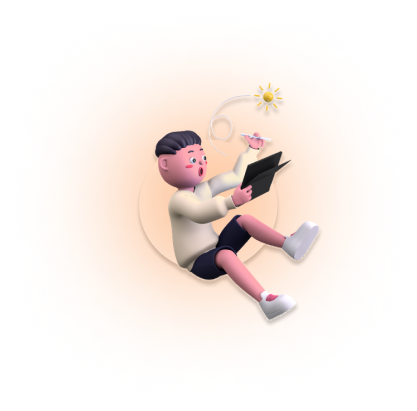
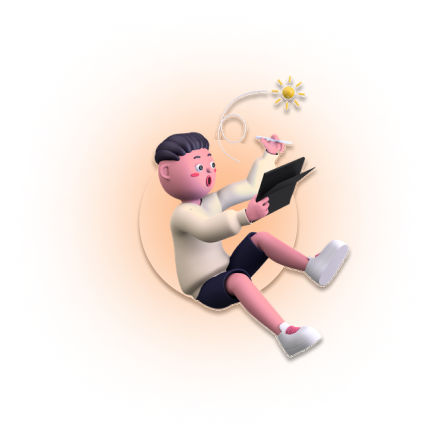
added register user screen

Changed region(s): [[0.3118, 0.1752, 0.8106, 0.8175]]

diff --git a/lib/screens/register_user_screen.dart b/lib/screens/register_user_screen.dart
@@ -1,0 +1,72 @@
+import 'package:flutter/material.dart';
+import 'package:olx_iete/constants.dart';
+import 'package:olx_iete/screens/login_screen.dart';
+
+class RegisterScreen extends StatelessWidget {
+  const RegisterScreen({super.key});
+
+  @override
+  Widget build(BuildContext context) {
+    return Scaffold(
+      body: Column(
+        children: [
+          Hero(
+            tag: 'login',
+            child: Image.asset(
+              "images/png/login_screen_character.png",
+              height: MediaQuery.of(context).size.height * 0.8,
+            ),
+          ),
+          Row(
+            mainAxisAlignment: MainAxisAlignment.spaceEvenly,
+            children: [
+              ElevatedButton(
+                 style: ElevatedButton.styleFrom(
+                  backgroundColor: CustomColors.orangeColor,
+                  animationDuration: const Duration(milliseconds: 100),
+                  shape: RoundedRectangleBorder(
+                    borderRadius: BorderRadius.circular(18),
+                  ),
+                ),
+                onPressed: () {
+                  Navigator.of(context).push(
+                    MaterialPageRoute(
+                        builder: (context) => const LoginScreen()),
+                  );
+                },
+                child: const Padding(
+                  padding: EdgeInsets.all(10.0),
+                  child: Text(
+                    "Login",
+                    style: TextStyle(
+                      fontSize: 16,
+                    ),
+                  ),
+                ),
+              ),
+              ElevatedButton(
+                 style: ElevatedButton.styleFrom(
+                  backgroundColor: CustomColors.orangeColor,
+                  animationDuration: const Duration(milliseconds: 100),
+                  shape: RoundedRectangleBorder(
+                    borderRadius: BorderRadius.circular(18),
+                  ),
+                ),
+                onPressed: () {},
+                child: const Padding(
+                  padding: EdgeInsets.all(10.0),
+                  child: Text(
+                    "Signup",
+                    style: TextStyle(
+                      fontSize: 16,
+                    ),
+                  ),
+                ),
+              )
+            ],
+          )
+        ],
+      ),
+    );
+  }
+}

diff --git a/lib/main.dart b/lib/main.dart
@@ -1,6 +1,7 @@
 import 'package:flutter/material.dart';
 import 'package:olx_iete/constants.dart';
 import 'package:olx_iete/screens/login_screen.dart';
+import 'package:olx_iete/screens/register_user_screen.dart';
 
 void main() {
   runApp(const MyApp());
@@ -19,7 +20,7 @@ class MyApp extends StatelessWidget {
             ),
       ),
       debugShowCheckedModeBanner: false,
-      home: const LoginScreen(),
+      home: const RegisterScreen(),
     );
   }
 }

diff --git a/lib/screens/login_screen.dart b/lib/screens/login_screen.dart
@@ -53,8 +53,6 @@ class LoginScreen extends StatelessWidget {
                   shape: RoundedRectangleBorder(
                     borderRadius: BorderRadius.circular(18),
                   ),
-
-                  // foregroundColor: CustomColors.orangeColor,
                 ),
                 onPressed: () {},
                 child: const Padding(

diff --git a/lib/widgets/custom_textfield.dart b/lib/widgets/custom_textfield.dart
@@ -36,7 +36,7 @@ class CustomTextField extends StatelessWidget {
   Widget build(BuildContext context) {
     return TextFormField(
       textInputAction: textInputAction,
-      autofocus: true,
+      // autofocus: true,
       autovalidateMode: AutovalidateMode.onUserInteraction,
       validator: validator,
       cursorColor: Colors.black,
